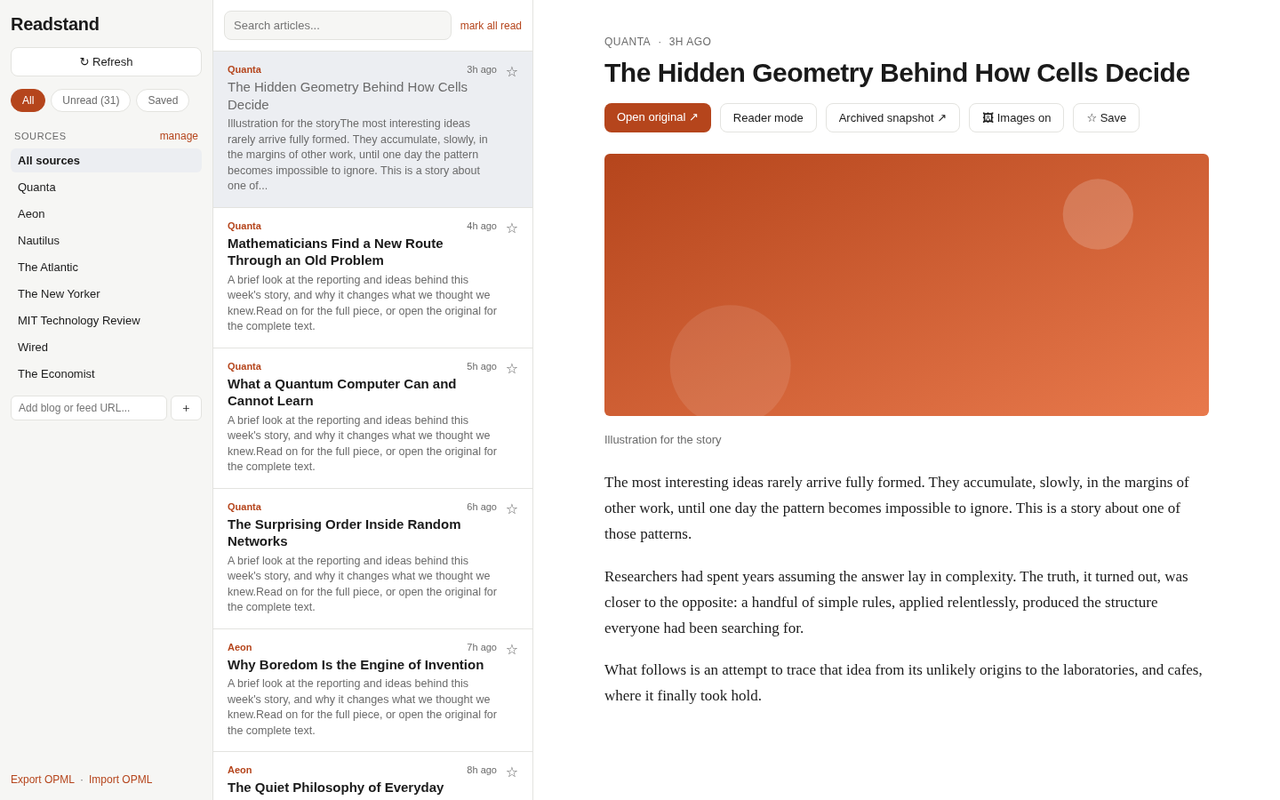
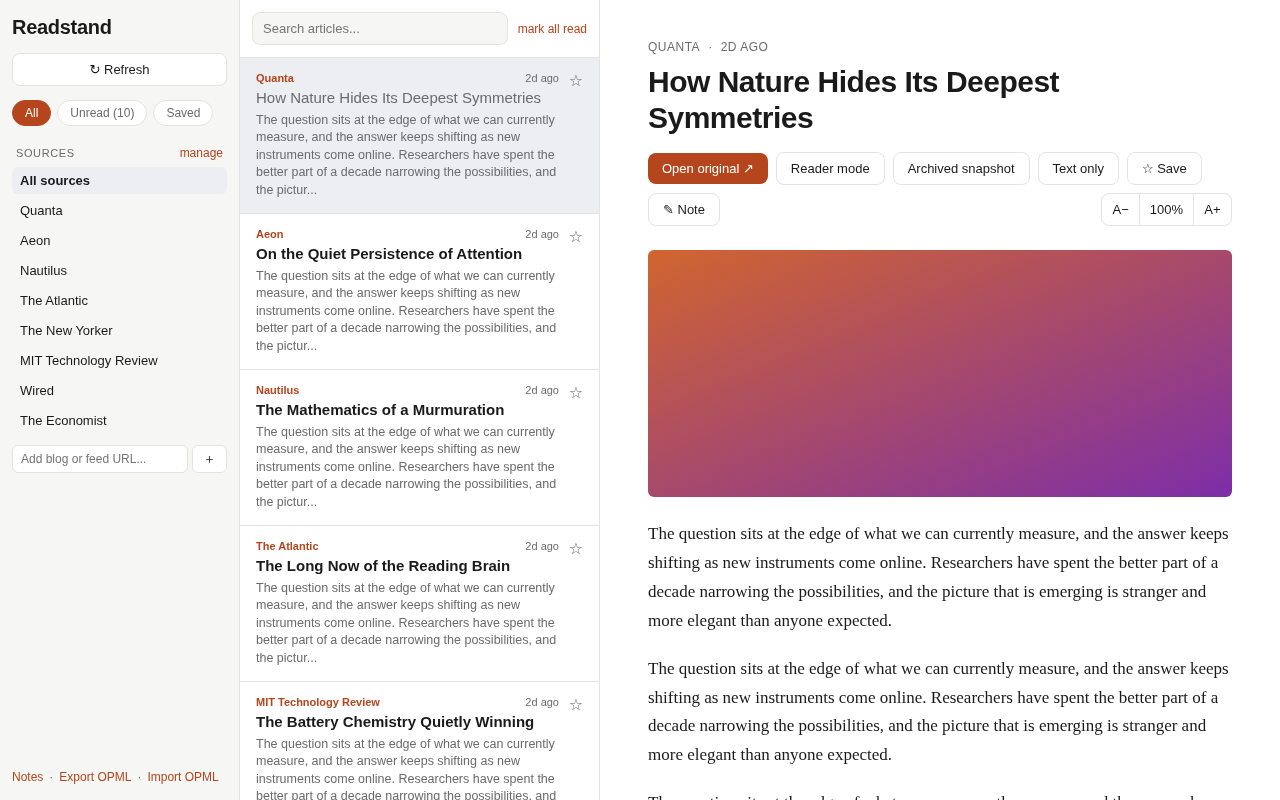
Gentle install: request host access at runtime; refresh store screenshots
- Move host access to optional_host_permissions so the extension installs
  without the 'read all your data on all websites' warning; a one-tap in-app
  gate requests it on first use
- Non-extension builds (PWA, desktop) are unaffected (access is implicit)
- Regenerate 1280x800 store screenshots showing the reading view and the
  notes/highlights panel; npm run shots now also emits them

diff --git a/src/App.jsx b/src/App.jsx
@@ -3,7 +3,7 @@ import { DEFAULT_FEEDS } from './feeds.js'
 import { fetchFeed } from './rss.js'
 import { fetchReadable, fetchArchived } from './readerMode.js'
 import { discoverFeeds } from './discover.js'
-import { openExternal } from './net.js'
+import { openExternal, isExtension, hasHostAccess, requestHostAccess } from './net.js'
 import { toOpml, parseOpml } from './opml.js'
 import * as store from './storage.js'
 
@@ -72,6 +72,7 @@ export default function App() {
   const [zoom, setZoom] = useState(1) // reader text scale
   const [mobilePane, setMobilePane] = useState('list') // 'list' | 'reader' (phone)
   const [drawerOpen, setDrawerOpen] = useState(false) // sources drawer (tablet/phone)
+  const [hostGranted, setHostGranted] = useState(true) // extension: host access granted?
   const [toast, setToast] = useState(null) // { text, type:'loading'|'ok'|'error' } | null
   const toastTimer = useRef(null)
   // Continue reading: id -> { id, title, link, source, time, pct, at }
@@ -235,9 +236,20 @@ export default function App() {
       } catch {
         /* not in extension context */
       }
-      await loadArticles(feedList)
+      // In the extension, host access is optional and granted at runtime. Only
+      // fetch once we have it; otherwise show the one-tap enable gate.
+      const granted = await hasHostAccess()
+      setHostGranted(granted)
+      if (granted) await loadArticles(feedList)
+      else setLoading(false)
     })()
   }, [loadArticles])
+
+  async function enableFetching() {
+    const ok = await requestHostAccess()
+    setHostGranted(ok)
+    if (ok) loadArticles(feeds)
+  }
 
   // ---- derived list --------------------------------------------------------
   const visible = useMemo(() => {
@@ -921,7 +933,19 @@ export default function App() {
           </button>
         </div>
 
-        {loading && !articles.length ? (
+        {isExtension && !hostGranted ? (
+          <div className="perm-gate">
+            <h3>One quick step</h3>
+            <p>
+              Readstand needs permission to fetch feeds from the web. It only
+              fetches the feeds and articles you choose, and nothing is tracked
+              or sent anywhere.
+            </p>
+            <button className="btn" onClick={enableFetching}>
+              Enable feed fetching
+            </button>
+          </div>
+        ) : loading && !articles.length ? (
           <div className="empty">Loading your magazines...</div>
         ) : !visible.length ? (
           <div className="empty">Nothing here. Try a different filter or add a feed.</div>

diff --git a/src/net.js b/src/net.js
@@ -17,6 +17,31 @@ export const isTauri =
   typeof window !== 'undefined' &&
   !!(window.__TAURI_INTERNALS__ || window.__TAURI__)
 
+// Host access is requested at runtime (optional_host_permissions) so the
+// extension installs with a gentle permission prompt instead of the scary
+// "read and change all your data on all websites" warning. Outside the
+// extension there is nothing to grant, so these resolve to "already granted".
+const HOST_ORIGINS = { origins: ['<all_urls>'] }
+
+export async function hasHostAccess() {
+  if (!isExtension || !chrome.permissions) return true
+  try {
+    return await chrome.permissions.contains(HOST_ORIGINS)
+  } catch {
+    return true
+  }
+}
+
+// Must be called from a user gesture (a click).
+export async function requestHostAccess() {
+  if (!isExtension || !chrome.permissions) return true
+  try {
+    return await chrome.permissions.request(HOST_ORIGINS)
+  } catch {
+    return false
+  }
+}
+
 // Open a URL in the user's real browser / default handler. In the extension and
 // web builds a new tab is fine, but inside the Tauri desktop webview a plain
 // target="_blank" or window.open goes nowhere, so we route through the opener

diff --git a/src/styles.css b/src/styles.css
@@ -606,6 +606,22 @@ body {
   text-align: center;
   font-size: 14px;
 }
+.perm-gate {
+  padding: 40px 28px;
+  text-align: center;
+  max-width: 420px;
+  margin: 6vh auto 0;
+}
+.perm-gate h3 {
+  margin: 0 0 10px;
+  font-size: 18px;
+}
+.perm-gate p {
+  color: var(--muted);
+  font-size: 14px;
+  line-height: 1.6;
+  margin: 0 0 18px;
+}
 .reader-empty {
   margin-top: 20vh;
 }